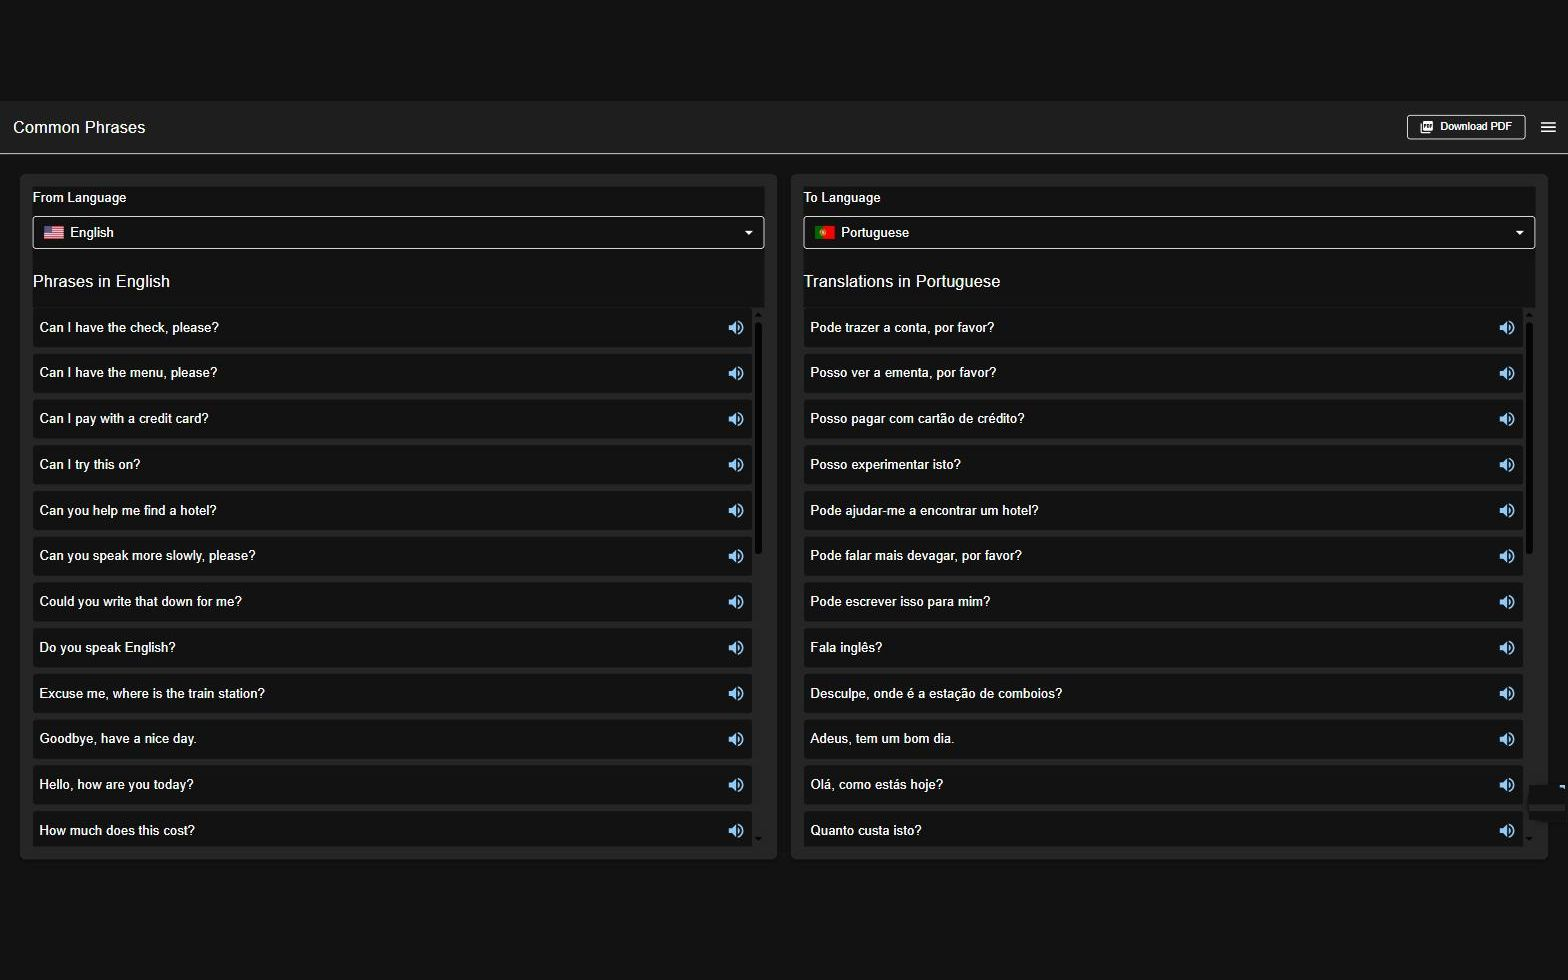
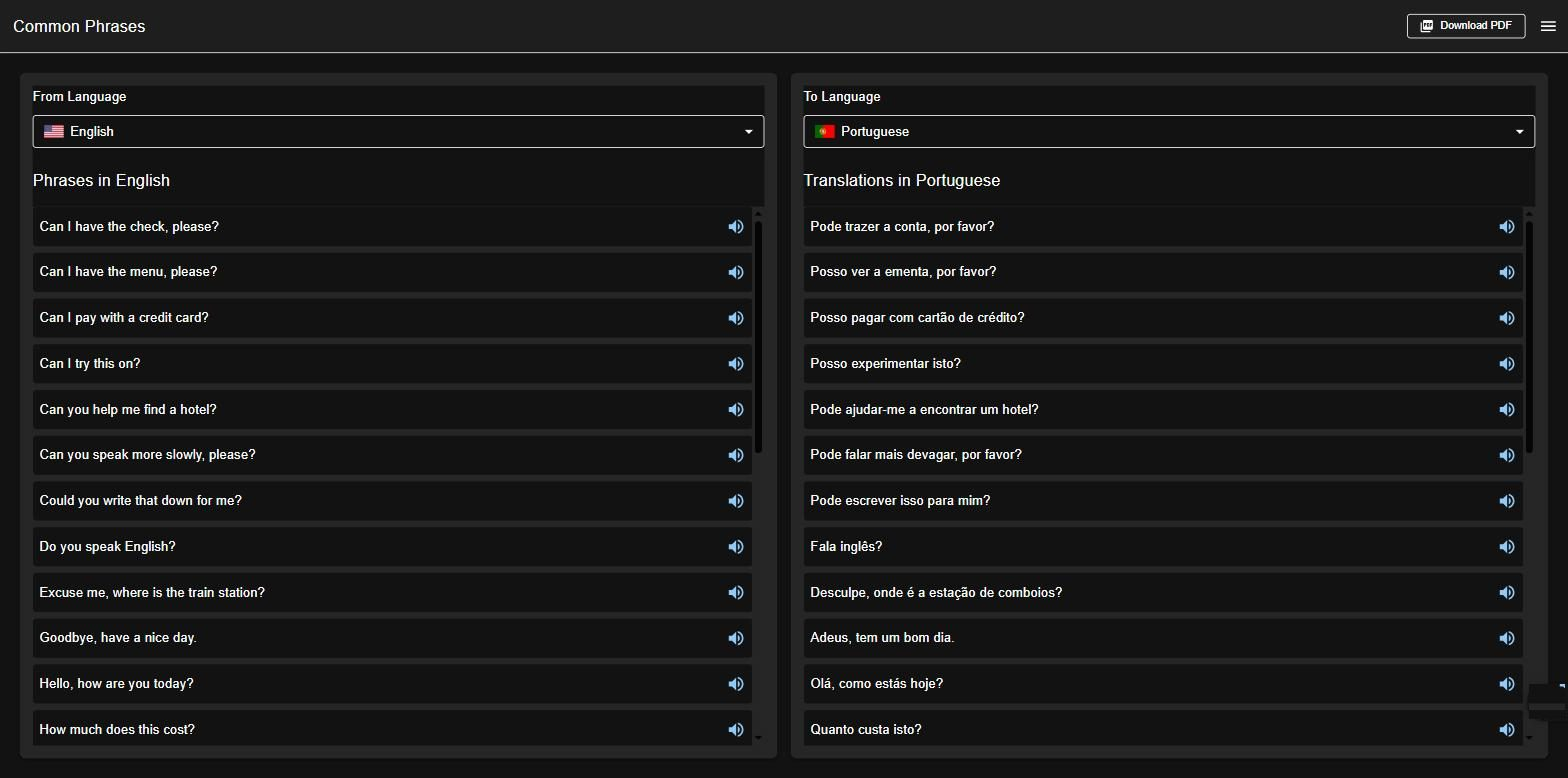
Show build screenshots in full — contain, not cover
The build cards cropped ~9% off each side of every screenshot
(cover in a 16:10 box), slicing the Groundswell region panel and
Goodstock Press's edge product cards out of frame. Switch the image
fit to contain so each screenshot sits whole inside the frame, with
the letterbox matching the media panel's own background. Revert the
Translator shot to its native ratio now that padding isn't needed.

diff --git a/src/ReactResume.css b/src/ReactResume.css
@@ -559,7 +559,9 @@ kbd {
   aspect-ratio: 16 / 10;
   background: var(--surface-2);
 }
-.build-media img { width: 100%; height: 100%; object-fit: cover; object-position: top center; display: block; }
+/* contain (not cover) so each screenshot sits fully inside the frame,
+   edges intact; the letterbox matches .build-media's own background */
+.build-media img { width: 100%; height: 100%; object-fit: contain; object-position: center; display: block; }
 
 .build-media.is-placeholder {
   display: grid;
